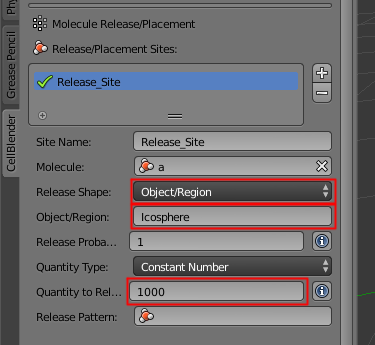
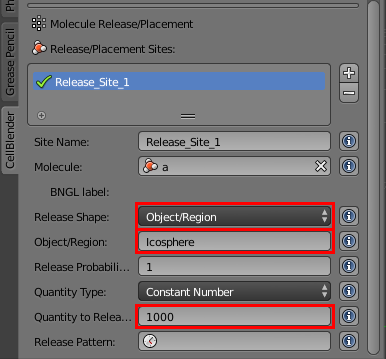
Lots of minor changes to update the tutorials to the new CellBlender.

diff --git a/add_meshgeom.rst b/add_meshgeom.rst
@@ -26,15 +26,27 @@ Save the File with a New Name in Your Working Directory
 * Change **unimol_reactions.blend** to **add_meshgeom.blend**
 * Click **Save As Blender File** button
 
-Add Sphere
+Add a Sphere
 ---------------------------------------------------------------
 
-* Click the **Create** tab
-* Hit the **Ico Sphere** button
+* Click the **Model Objects** button to open the Model Objects panel
 
-.. image:: ./images/add_meshgeom/add_icosphere1.png
+.. image:: ./images/add_meshgeom/add_icosphere_model_object1.png
 
-* The **Add Ico Sphere** options appear in the lower left corner
+When you create new objects, Blender will place them at the location
+of the 3D cursor (|cursor3d|). To create a new sphere object at the
+origin, be sure to center the 3D cursor in all 3 dimensions. The Model
+Objects panel includes a convenient button for that purpose:
+
+.. |cursor3d| image:: ./images/shared/blender_3d_cursor_icon_20.png
+
+.. image:: ./images/add_meshgeom/add_icosphere_model_object2.png
+
+* With the cursor centered, click the **icosphere** button to create a new icosphere at the 3D cursor location
+
+.. image:: ./images/add_meshgeom/add_icosphere_model_object3.png
+
+* The **Add Ico Sphere** options panel will appear in the lower left corner
 * Change **Subdivisions** to **3**
 * Change **Size** to **0.5**
 * Change each **Location** (**X**, **Y**, and **Z**) to **0.0** if it isn't set
@@ -42,17 +54,12 @@ Add Sphere
 
 .. image:: ./images/add_meshgeom/add_icosphere2.png
 
-Add Sphere to Model Objects
+Add the new Sphere to the Model Objects
 ---------------------------------------------------------------
-
-* Click the **CellBlender** tab
-* Click the **Model Objects** button
-
-.. image:: ./images/add_meshgeom/model_objects_button.png
 
 * Click the "plus" sign (**+**) to the right of the **Model Objects** box
 * Expand the **Icosphere Display Options** panel
-* Select **Wire** from the drop-down menu.
+* Select **Wire** from the drop-down menu (may originally show "Solid").
 
 .. image:: ./images/add_meshgeom/model_objects.png
 
@@ -60,9 +67,9 @@ Release Molecules inside Sphere
 ---------------------------------------------------------------
 
 * Click the **Molecule Placement** button
-* Select **Release_Site**
+* Select **Release_Site_1** (should already be selected)
 * Change **Release Shape** to **Object/Region**
-* Type **Icosphere** in the **Object/Region** field
+* Type "**Icosphere**" in the **Object/Region** field
 * Change **Quantity to Release** to **1000**
 
 .. image:: ./images/add_meshgeom/sphere_release.png
@@ -74,7 +81,7 @@ Simulate the Model
 
 .. image:: ./images/single_molecule/run_sim_button.png
 
-* Click the **Run** button
+* Click the **Export & Run** button
 
 .. image:: ./images/single_molecule/run_sim.png
 

diff --git a/unimol_reactions.rst b/unimol_reactions.rst
@@ -33,9 +33,10 @@ Define a Reaction
 .. image:: ./images/unimol_reactions/reactions_button.png
 
 * Click the "plus" sign (**+**) to the right of the **Defined Reactions** box
+* Ignore the error (indicates that you haven't fully defined a reaction yet)
 * Type **a** in the **Reactants** text field
-* Type **NULL** in the **Products** text field
-* Type **5e3** in the **Forward Rates** text field
+* Type **NULL** (all upper case) in the **Products** text field
+* Type **5e3** in the **Forward Rate** text field
 
 .. image:: ./images/unimol_reactions/define_reactions1.png
 
@@ -47,7 +48,7 @@ Release More Molecules
 
 .. image:: ./images/unimol_reactions/release_1000.png
 
-Create Reaction Data
+Define Reaction Data to be Saved for Plotting
 -----------------------------------
 
 * Click the **Plot Output Settings** button
@@ -59,19 +60,21 @@ Create Reaction Data
 
 .. image:: ./images/unimol_reactions/plot1.png
 
+* Note the descriptive item "**Count a in World**" in the list
+
 Simulate the Model
 --------------------------
 
-* Click the **Run Simulation** button
+* Click the **Run Simulation** button to return to the Run Simulation panel
 
 .. image:: ./images/single_molecule/run_sim_button.png
 
-* Click the **Run** button
+* Click the **Export & Run** button
 
 .. image:: ./images/single_molecule/run_sim.png
 
 * Wait for the simulation to complete
-* Press the "Reload Visualization Data" button to load the results of the
+* Press the "**Reload Visualization Data**" button to load the results of the
   simulation.
 
 .. image:: ./images/single_molecule/reload_viz_data.png
@@ -79,7 +82,7 @@ Simulate the Model
 Use the Time Line
 -------------------------
 
-* Press the "Play" (|play|) button below the time line
+* Press the "**Play**" (|play|) button below the time line
 
 .. |play| image:: ./images/single_molecule/play.png
 
@@ -90,6 +93,8 @@ Use the Time Line
 * Stop the simulation by clicking the "Pause" (|pause|) button below the time line
 
 .. |pause| image:: ./images/single_molecule/pause.png
+
+* Click or Click-and-Drag in the time line to view the simulation at different points in time
 
 Plot the Reaction Data
 -------------------------

diff --git a/single_molecule_diffusion.rst b/single_molecule_diffusion.rst
@@ -32,6 +32,8 @@ Save the File with a New Name in Your Working Directory
 ---------------------------------------------------------------
 
 * Start Blender
+* Select all objects (press the **a** key until all objects are orange)
+* Delete all objects (press the **x** key and click the "**Delete**" pop up button)
 * Select **File** > **Save As...**
 * Change **untitled.blend** to **single_molecule.blend**
 * Click **Save As Blender File** button
@@ -84,6 +86,7 @@ Simulate the Model
 
 .. image:: ./images/single_molecule/reload_viz_data.png
 
+* Zoom in (mouse scroll wheel) to see molecule(s) at the origin
 Change Settings to See Results
 --------------------------------------
 
@@ -116,7 +119,7 @@ Use the Time Line
 .. image:: ./images/single_molecule/timeline.png
 
 * Press the "Play" (|play|) button below the time line
-* Use the scroll wheel to zoom in until you can see the moving torus
+* Use the mouse scroll wheel to zoom in or out until you can see the moving torus
 
 .. image:: ./images/single_molecule/single_diffusing_molec.png
 

diff --git a/bimol_reactions.rst b/bimol_reactions.rst
@@ -46,8 +46,7 @@ Release "b" Molecules into the Simulation
 .. image:: ./images/single_molecule/molecule_placement.png
 
 * Click the "plus" sign (**+**) to the right of the **Release/Placement Sites** box
-* Change the **Site Name** to **Release_Site2**
-* Click in the **Molecule** field and select the **b** molecules
+* Click in the **Molecule** field and select the **b** molecule type
 * Change **Release Shape** to **Object/Region**
 * Type **Icosphere** in the **Object/Region** field
 * Click in the **Quantity to Release** field and set it to **1000**
